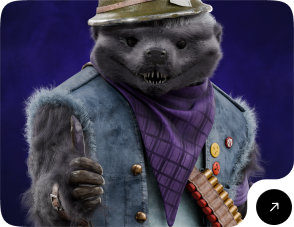
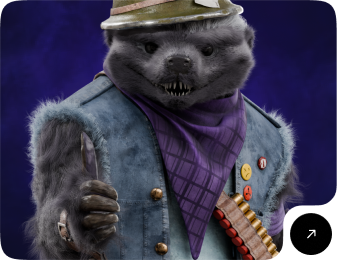
[FIX] size img

diff --git a/src/containers/CaseView.tsx b/src/containers/CaseView.tsx
@@ -330,7 +330,7 @@ const CaseView = () => {
                                     className={"relative w-full h-full bac bg-no-repeat bg-contain"}
                                     style={{ scale: '90%' }}
                                 >
-                                    <Image src={project.img} fill className="object-contain" alt="project" />
+                                    <Image quality={100} src={project.img} fill className="object-contain" alt="project" />
                                 </div>
                             </SwiperSlide>
                         })}
@@ -351,8 +351,8 @@ const CaseView = () => {
             </div>
             <div className="w-full h-full flex flex-row relative justify-center">
                 <div className="flex lg:hidden flex-col mt-10 mb-8 ml-10 max-w-[360px]">
-                    <div className='flex flex-row w-full relative'>
-                        <div ref={scrollRef2}>
+                    <div className='flex flex-row w-full relative h-[260px]'>
+                        {/* <div ref={scrollRef2}>
                             <svg width="2" height="227" viewBox="0 0 2 448" fill="none" xmlns="http://www.w3.org/2000/svg">
                                 <path opacity="0.8" d="M1 0L1.00002 448" stroke="white" strokeDasharray="5 5" />
                             </svg>
@@ -379,14 +379,14 @@ const CaseView = () => {
                                     <feGaussianBlur stdDeviation="7.392" result="effect1_foregroundBlur_2_543" />
                                 </filter>
                             </defs>
-                        </svg>
+                        </svg> */}
                         <div className='w-full h-full mr-8 absolute z-10 relative cursor-pointer pointer-events-auto'>
                             <Swiper
-                                className='w-full max-h-[220px] h-full absolute left-0 cursor-pointer'
+                                className='w-full max-h-[260px] h-full absolute left-0 cursor-pointer'
                                 direction={'vertical'}
                                 effect={'creative'}
                                 scrollbar={{ draggable: true }}
-                                spaceBetween={0}
+                                spaceBetween={30}
                                 speed={700}
                                 mousewheel={{
                                     releaseOnEdges: true,
@@ -407,7 +407,7 @@ const CaseView = () => {
                                 {projects.map((project, index) => {
                                     return <SwiperSlide key={index} className="w-full">
                                         <div className="relative w-full h-full">
-                                            <Image src={project.imgMobile} fill className="object-contain" alt="project" />
+                                            <Image quality={100} src={project.imgMobile} fill className="object-contain" alt="project" />
                                         </div>
                                     </SwiperSlide>
                                 })}

diff --git a/src/containers/Footer.tsx b/src/containers/Footer.tsx
@@ -117,7 +117,7 @@ const Footer = () => {
                     {getTranslation('footer.text19')}
                 </Button>
             </div>
-            <div className='absolute bg-[url(/img/interface/shum.png)] pointer-events-none top-0 right-0 w-full h-full mix-blend-soft-light z-[2]' />
+            <div className='absolute bg-[url(/img/interface/shum.png)] pointer-events-none top-0 right-0 w-full h-full mix-blend-soft-light z-[2] opacity-35' />
             <div className="w-full flex flex-row justify-center">
                 <div className='px-4 md:px-12 xl:px-20 lg:px-36 py-11 lg:py-32 flex flex-col w-full gap-14 max-w-[1440px]'>
                     <nav className='hidden md:flex flex-row items-center justify-between pt-[51px] z-40'>
